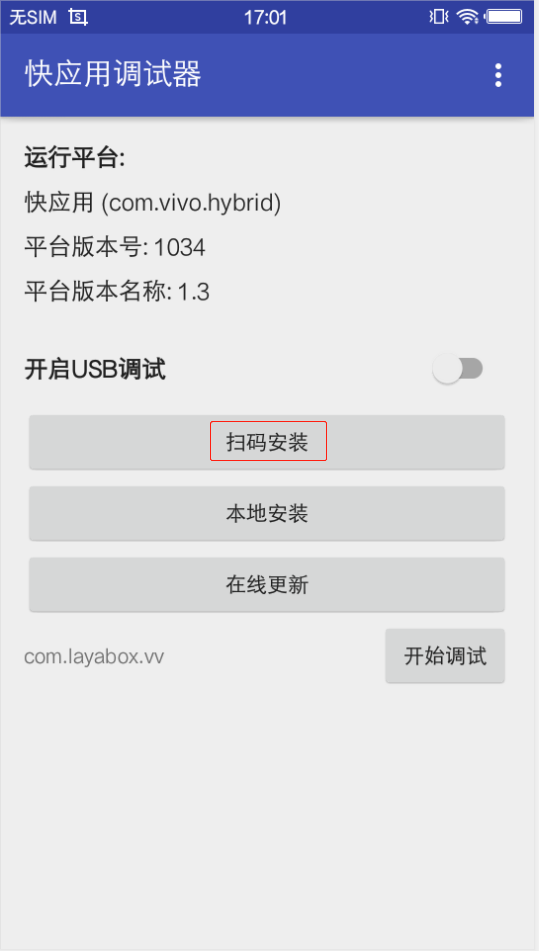
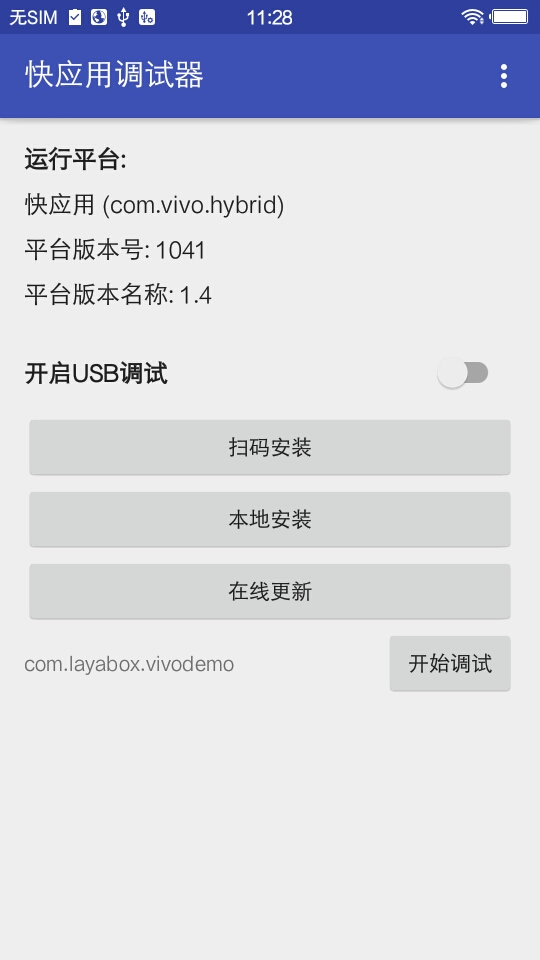
update vivo/rundebug/readme.md

diff --git a/LayaAir2.0/Chinese/miniGame/vivo/rundebug/readme.md b/LayaAir2.0/Chinese/miniGame/vivo/rundebug/readme.md
@@ -1,39 +1,49 @@
-# VIVO小游戏发布与调试指南
+# vivo小游戏发布与调试指南
 
-> update : 2019-06-25
+> update : 2019-07-01
 >
-> VIVO小游戏的发布必须要使用LayaAirIDE，关于IDE的下载使用相关，请查看相关文档，不在本篇介绍范围内。
+> vivo小游戏的发布必须要使用LayaAirIDE，关于IDE的下载使用相关，请查看相关文档，不在本篇介绍范围内。
 
-## 1、VIVO小游戏发布、调试环境准备
+## 1、vivo小游戏发布、调试环境准备
 
-1、VIVO品牌的手机
+1、vivo品牌的手机
 
-2、下载安装VIVO的调试APP，下载页面：[https://minigame.vivo.com.cn/documents/#/download/debugger](https://minigame.vivo.com.cn/documents/#/download/debugger)
+2、下载安装vivo的调试APP，下载页面：[https://minigame.vivo.com.cn/documents/#/download/debugger](https://minigame.vivo.com.cn/documents/#/download/debugger)
 
-进入页面后，点击 立即下载 ，即可下载安装。至于如何安装VIVO调试APP，这里就不介绍了。
+进入页面后，点击 立即下载 ，即可下载安装。至于如何安装vivo调试APP，这里就不介绍了。
 
-3、PC电脑的chrome浏览器与手机数据连接线。
+3、下载vivo小游戏引擎
 
-4、安装nodejs 环境 [node官网：[https://nodejs.org/en/](https://nodejs.org/en/)]
+当前**调试APP**内置的vivo引擎版本是1034，这个版本存在已知BUG，我们必须要前往vivo小游戏官网下载最新版本的小游戏引擎apk。
+
+下载页面为：
+
+https://minigame.vivo.com.cn/documents/#/download/engine
+
+当前的推荐的版本是1041，下载安装后，我们可以看到vivo快应用调试器的平台版本号那里也是显示的1041。
+
+4、PC电脑的chrome浏览器与手机数据连接线。
+
+5、安装nodejs 环境 [node官网：[https://nodejs.org/en/](https://nodejs.org/en/)]
 
 就是下载安装，比较简单，也不细介绍。能在命令行里调起npm命令就算是成功了。
 
-5、LayaAirIDE集中开发环境，LayaAir IDE 2.1.1beta 或以上版本 [ 官网下载: [https://ldc2.layabox.com/layadownload/?type=layaairide](https://ldc2.layabox.com/layadownload/?type=layaairide) ]
+6、LayaAirIDE集中开发环境，LayaAir IDE 2.1.1beta 或以上版本 [ 官网下载: [https://ldc2.layabox.com/layadownload/?type=layaairide](https://ldc2.layabox.com/layadownload/?type=layaairide) ]
 
-6、安装ADB 
+7、安装ADB 
 
-vivo发布时，是通过 ADB 把rpk包推到手机的games目录上去，所以这个必须要装。
+ADB可以用于授权，以及发布推送等，可以前往ADB的官网下载并安装。
 
  [ ADB官网下载:  [http://adbshell.com/downloads](http://adbshell.com/downloads) ]
 
 > 简单提示一下，下载 ADB Kits，下载后的压缩包，建议解压放到一个路径简单一些的目录（如: `D:\adb`）。要记得添加环境变量（不知如何添加环境变量的可自行百度）。
 >
 
-## 2、VIVO小游戏发布与接入完整流程
+## 2、vivo小游戏发布与接入完整流程
 
-### 1、发布VIVO小游戏包(xx.rpk)
+### 1、发布vivo小游戏包(xx.rpk)
 
-LayaAirIDE的发布功能，内置了VIVO小游戏的发布功能，需要先将LayaAir引擎的项目，通过发布功能打成.rpk后缀的包。关于发布功能的使用。这里不重复介绍了。不会的可以前往官网文档查看。
+LayaAirIDE的发布功能，内置了vivo小游戏的发布功能，需要先将LayaAir引擎的项目，通过发布功能打成.rpk后缀的包。关于发布功能的使用。这里不重复介绍了。不会的可以前往官网文档查看。
 
 链接：[https://ldc2.layabox.com/doc/?nav=zh-ts-2-0-6](https://ldc2.layabox.com/doc/?nav=zh-ts-2-0-6)
 
@@ -49,17 +59,17 @@ LayaAirIDE的发布功能，内置了VIVO小游戏的发布功能，需要先将
 
 ####  3.1 安装并进入快应用调试器
 
-要启动电脑PC的chrome调试环境，我们要先安装好VIVO小游戏的调试APP（快应用调试器），如图3所示。然后点击进入。
+要启动电脑PC的chrome调试环境，我们要先安装好vivo小游戏的调试APP（快应用调试器），如图3所示。然后点击进入。
 
 ![图3](img/3.png) 
 
 （图3）
 
-#### 3.2 在快应用调试器界面扫码安装VIVO小游戏的rpk包
+#### 3.2 在快应用调试器界面扫码安装vivo小游戏的rpk包
 
 进入快应用调试器之后，我们可以看到如图4所示的APP操作界面。
 
-![图4](img/4.png) 
+![图4](img/4.png)  
 
 (图4)
 
@@ -105,13 +115,15 @@ LayaAirIDE的发布功能，内置了VIVO小游戏的发布功能，需要先将
 
 要启动调试，就要先退出来。
 
-然后，如图6所示，点击**开始调试**，进入VIVO小游戏的调试模式。
+然后，如图6所示，点击**开始调试**，进入vivo小游戏的调试模式。
 
 ![图6](img/6.png) 
 
+（图6）
+
 真机进入调试模式后，我们再到PC上打开chrome浏览器。
 
-这时候别忘了，要通地USB数据线，将手机设备与PC相联，权限的问题上面已经说过，不再重复。
+这时候别忘了，要联接USB数据线，将手机设备与PC相联，权限的问题上面已经说过，不再重复。
 
 我们要在手机端查找到手机的IP（不知道怎么查的自行百度）并记住他。一定要注意的是，手机网要和PC网始终保持在同一个局域网段。
 
@@ -127,9 +139,9 @@ chrome-devtools://devtools/bundled/inspector.html?v8only=true&ws={IP}:5086/00010
 
 
 
-至此，VIVO小游戏从发布到启动chrome调试的完整流程已介绍完。
+至此，vivo小游戏从发布到启动chrome调试的完整流程已介绍完。如果想了解关于更多vivo小游戏的接入流程与文档介绍，记住这个网址：
 
-最终具体的调试方式。就不在本篇中细讲了。
+https://minigame.vivo.com.cn
 
 
 
